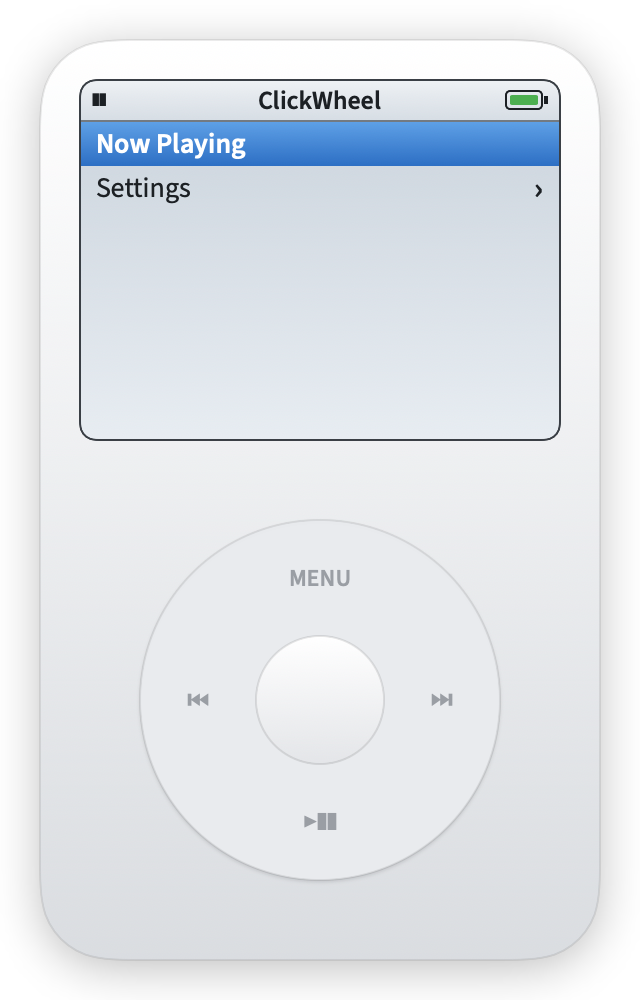
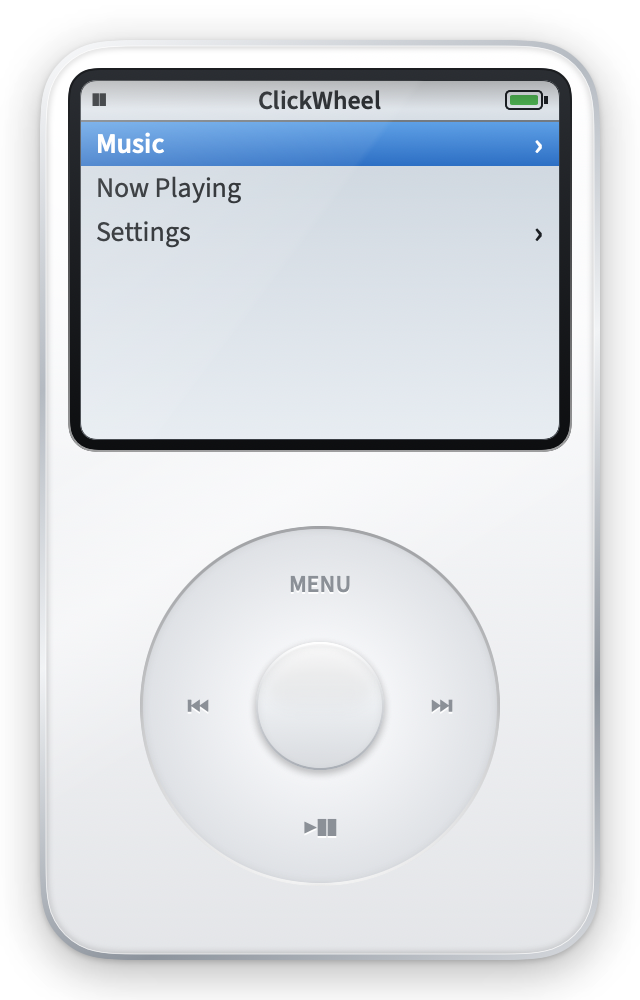
feat: skeuomorphic white body
- Chrome rim, glossy acrylic face with highlight and sheen
- Recessed black-glass screen bezel with glare
- Matte recessed wheel, engraved labels, convex center button
- Press feedback: center button sinks, tapped quadrant darkens

diff --git a/ClickWheel/UI/ClickWheelView.swift b/ClickWheel/UI/ClickWheelView.swift
@@ -8,26 +8,40 @@ struct ClickWheelView: View {
     @State private var tracker = WheelGestureTracker()
     @State private var dragging = false
     @State private var rotated = false
+    @State private var pressedQuadrant: WheelEvent?
+    @State private var centerPressed = false
 
     private let size = Theme.wheelDiameter
 
     var body: some View {
         ZStack {
-            Circle()
-                .fill(Theme.wheelFill)
-                .overlay(Circle().stroke(Color.black.opacity(0.08), lineWidth: 1))
-                .shadow(color: .black.opacity(0.12), radius: 1, y: 1)
-                .contentShape(Circle())
-                .gesture(ringGesture)
+            ring
             labels.allowsHitTesting(false)
-            Circle()
-                .fill(Theme.centerFill)
-                .overlay(Circle().stroke(Color.black.opacity(0.1), lineWidth: 1))
-                .frame(width: Theme.centerDiameter, height: Theme.centerDiameter)
-                .contentShape(Circle())
-                .onTapGesture { onEvent(.center) }
+            centerButton
         }
         .frame(width: size, height: size)
+    }
+
+    // MARK: - Drawing
+
+    /// Matte surface set into the body: radial shading, a recessed edge
+    /// (dark on top, light catch at the bottom) and a flash on the tapped quadrant.
+    private var ring: some View {
+        Circle()
+            .fill(Theme.wheelSurface)
+            .overlay { quadrantFlash }
+            .overlay(Circle().strokeBorder(Theme.wheelRecess, lineWidth: 1.5))
+            .overlay(Circle().stroke(Color.black.opacity(0.12), lineWidth: 2).blur(radius: 2).clipShape(Circle()))
+            .contentShape(Circle())
+            .gesture(ringGesture)
+    }
+
+    @ViewBuilder private var quadrantFlash: some View {
+        if let quadrant = pressedQuadrant {
+            QuadrantShape(centerAngle: angle(of: quadrant))
+                .fill(Color.black.opacity(0.07))
+                .mask(Circle().strokeBorder(lineWidth: (size - Theme.centerDiameter) / 2))
+        }
     }
 
     private var labels: some View {
@@ -39,7 +53,41 @@ struct ClickWheelView: View {
             Text("▶❚❚").offset(y: offset)
         }
         .font(Theme.font(12, semibold: true))
-        .foregroundStyle(Theme.wheelLabel)
+        .foregroundStyle(Theme.engravedLabel)
+        // Engraved: a light edge just below each stroke.
+        .shadow(color: .white.opacity(0.95), radius: 0, y: 1)
+    }
+
+    /// Glossy, convex, and it visibly presses in.
+    private var centerButton: some View {
+        Circle()
+            .fill(Theme.buttonGloss)
+            .overlay {
+                Ellipse()
+                    .fill(LinearGradient(colors: [.white.opacity(0.7), .white.opacity(0)], startPoint: .top, endPoint: .bottom))
+                    .frame(width: Theme.centerDiameter * 0.8, height: Theme.centerDiameter * 0.45)
+                    .offset(y: -Theme.centerDiameter * 0.18)
+                    .blur(radius: 3)
+            }
+            .overlay(Circle().fill(Color.black.opacity(centerPressed ? 0.08 : 0)))
+            .overlay(Circle().strokeBorder(Theme.buttonRim, lineWidth: 1))
+            .frame(width: Theme.centerDiameter, height: Theme.centerDiameter)
+            .scaleEffect(centerPressed ? 0.96 : 1)
+            .shadow(color: .black.opacity(centerPressed ? 0.1 : 0.22), radius: centerPressed ? 0.5 : 2, y: centerPressed ? 0.5 : 1.5)
+            .contentShape(Circle())
+            .gesture(centerGesture)
+    }
+
+    // MARK: - Input
+
+    private var centerGesture: some Gesture {
+        DragGesture(minimumDistance: 0)
+            .onChanged { _ in centerPressed = true }
+            .onEnded { value in
+                centerPressed = false
+                let d = hypot(value.location.x - Theme.centerDiameter / 2, value.location.y - Theme.centerDiameter / 2)
+                if d <= Theme.centerDiameter / 2 { onEvent(.center) }
+            }
     }
 
     private var ringGesture: some Gesture {
@@ -61,8 +109,17 @@ struct ClickWheelView: View {
                 defer { tracker.end(); dragging = false }
                 let moved = hypot(value.translation.width, value.translation.height)
                 guard !rotated, moved < 6 else { return }
-                onEvent(buttonEvent(at: relative(value.startLocation)))
+                let event = buttonEvent(at: relative(value.startLocation))
+                flash(event)
+                onEvent(event)
             }
+    }
+
+    private func flash(_ quadrant: WheelEvent) {
+        pressedQuadrant = quadrant
+        DispatchQueue.main.asyncAfter(deadline: .now() + 0.15) {
+            if pressedQuadrant == quadrant { pressedQuadrant = nil }
+        }
     }
 
     private func relative(_ location: CGPoint) -> CGPoint {
@@ -78,5 +135,30 @@ struct ClickWheelView: View {
         case 45 ..< 135: return .playPause
         default: return .previous
         }
+    }
+
+    /// Center of each button's quadrant, in degrees (y down).
+    private func angle(of quadrant: WheelEvent) -> Double {
+        switch quadrant {
+        case .menu: return -90
+        case .next: return 0
+        case .playPause: return 90
+        default: return 180
+        }
+    }
+}
+
+/// A 90° pie slice centered on `centerAngle` (degrees, y down).
+private struct QuadrantShape: Shape {
+    let centerAngle: Double
+
+    func path(in rect: CGRect) -> Path {
+        var path = Path()
+        let center = CGPoint(x: rect.midX, y: rect.midY)
+        path.move(to: center)
+        path.addArc(center: center, radius: rect.width / 2,
+                    startAngle: .degrees(centerAngle - 45), endAngle: .degrees(centerAngle + 45), clockwise: false)
+        path.closeSubpath()
+        return path
     }
 }

diff --git a/ClickWheel/UI/IPodView.swift b/ClickWheel/UI/IPodView.swift
@@ -1,6 +1,6 @@
 import SwiftUI
 
-/// The whole device: body, screen and wheel.
+/// The whole device: chrome rim, glossy acrylic face, recessed screen and wheel.
 struct IPodView: View {
     /// ImageRenderer can't draw AppKit views, so snapshots leave out the drag area.
     var includesWindowControls = true
@@ -9,11 +9,16 @@ struct IPodView: View {
     @EnvironmentObject private var settings: AppSettings
     @EnvironmentObject private var hub: PlayerHub
 
+    private var faceShape: RoundedRectangle {
+        RoundedRectangle(cornerRadius: Theme.bodyCornerRadius - Theme.rimWidth)
+    }
+
     var body: some View {
         ZStack(alignment: .top) {
             RoundedRectangle(cornerRadius: Theme.bodyCornerRadius)
-                .fill(Theme.bodyGradient)
-                .overlay(RoundedRectangle(cornerRadius: Theme.bodyCornerRadius).stroke(Color.black.opacity(0.08), lineWidth: 1))
+                .fill(Theme.chrome)
+            face
+                .padding(Theme.rimWidth)
                 .overlay {
                     if includesWindowControls {
                         WindowDragArea(keepOnTop: settings.keepOnTop) { settings.keepOnTop.toggle() }
@@ -21,11 +26,13 @@ struct IPodView: View {
                     }
                 }
             VStack(spacing: 0) {
-                ScreenView()
-                    // The screen only needs clicks for the permission button;
-                    // otherwise let them reach the drag area so it moves the window.
-                    .allowsHitTesting(hub.status != .ok && hub.snapshot?.track == nil)
-                    .padding(.top, Theme.screenInset)
+                ScreenBezel {
+                    ScreenView()
+                        // The screen only needs clicks for the permission button;
+                        // otherwise let them reach the drag area so it moves the window.
+                        .allowsHitTesting(hub.status != .ok && hub.snapshot?.track == nil)
+                }
+                .padding(.top, Theme.screenInset - Theme.bezelInset)
                 Spacer()
                 ClickWheelView { navigator.handle($0) }
                 Spacer()
@@ -33,6 +40,66 @@ struct IPodView: View {
         }
         .frame(width: Theme.bodySize.width, height: Theme.bodySize.height)
         .compositingGroup()
-        .shadow(color: .black.opacity(Theme.shadowOpacity), radius: Theme.shadowRadius, y: 4)
+        .shadow(color: .black.opacity(0.18), radius: 1.5, y: 1)
+        .shadow(color: .black.opacity(Theme.shadowOpacity), radius: Theme.shadowRadius, y: 6)
+    }
+
+    /// Glossy white acrylic: base gradient, a top-left specular highlight, a soft
+    /// diagonal sheen and a shadowed edge where it meets the chrome.
+    private var face: some View {
+        faceShape
+            .fill(Theme.acrylic)
+            .overlay {
+                RadialGradient(colors: [.white.opacity(0.95), .white.opacity(0)],
+                               center: UnitPoint(x: 0.15, y: 0.05), startRadius: 0, endRadius: 190)
+                    .blendMode(.screen)
+            }
+            .overlay {
+                LinearGradient(stops: [.init(color: .white.opacity(0), location: 0.35),
+                                       .init(color: .white.opacity(0.45), location: 0.48),
+                                       .init(color: .white.opacity(0), location: 0.62)],
+                               startPoint: .topLeading, endPoint: .bottomTrailing)
+            }
+            .overlay {
+                faceShape
+                    .stroke(Color.black.opacity(0.18), lineWidth: 2)
+                    .blur(radius: 1.5)
+            }
+            .clipShape(faceShape)
+            .overlay(faceShape.stroke(Color.white.opacity(0.7), lineWidth: 0.5))
+    }
+}
+
+/// Black glass window the LCD sits in, with an inner shadow and a glare.
+private struct ScreenBezel<Content: View>: View {
+    @ViewBuilder let content: Content
+
+    private let corner = Theme.screenCornerRadius + Theme.bezelInset
+
+    var body: some View {
+        ZStack {
+            RoundedRectangle(cornerRadius: corner)
+                .fill(Theme.bezel)
+                .overlay(RoundedRectangle(cornerRadius: corner)
+                    .strokeBorder(LinearGradient(colors: [.black.opacity(0.35), .white.opacity(0.6)],
+                                                 startPoint: .top, endPoint: .bottom), lineWidth: 1))
+            content
+                .overlay {
+                    // Recess: shadow falling from the top edge of the window.
+                    LinearGradient(colors: [.black.opacity(0.28), .clear], startPoint: .top, endPoint: .init(x: 0.5, y: 0.08))
+                        .allowsHitTesting(false)
+                }
+                .overlay {
+                    // Glass glare across the top-left of the display.
+                    LinearGradient(stops: [.init(color: .white.opacity(0.22), location: 0),
+                                           .init(color: .white.opacity(0.06), location: 0.45),
+                                           .init(color: .clear, location: 0.46)],
+                                   startPoint: .topLeading, endPoint: .bottomTrailing)
+                        .allowsHitTesting(false)
+                }
+                .clipShape(RoundedRectangle(cornerRadius: Theme.screenCornerRadius))
+        }
+        .frame(width: Theme.screenSize.width + Theme.bezelInset * 2,
+               height: Theme.screenSize.height + Theme.bezelInset * 2)
     }
 }

diff --git a/ClickWheel/UI/Theme.swift b/ClickWheel/UI/Theme.swift
@@ -30,6 +30,30 @@ enum Theme {
                                            startPoint: .top, endPoint: .bottom)
     static let wheelLabel = Color(hex: 0x9A9EA4)
 
+    // Skeuomorphic materials
+    static let rimWidth: CGFloat = 3
+    static let chrome = LinearGradient(
+        stops: [.init(color: Color(hex: 0xFAFBFC), location: 0),
+                .init(color: Color(hex: 0xB4BAC1), location: 0.28),
+                .init(color: Color(hex: 0xF1F3F5), location: 0.5),
+                .init(color: Color(hex: 0x8C939C), location: 0.78),
+                .init(color: Color(hex: 0xD9DCE0), location: 1)],
+        startPoint: .topLeading, endPoint: .bottomTrailing)
+    static let acrylic = LinearGradient(colors: [Color(hex: 0xFFFFFF), Color(hex: 0xF3F4F6), Color(hex: 0xE4E6E9)],
+                                        startPoint: .top, endPoint: .bottom)
+    static let bezelInset: CGFloat = 6
+    static let bezel = LinearGradient(colors: [Color(hex: 0x2B2E33), Color(hex: 0x0D0E10)],
+                                      startPoint: .top, endPoint: .bottom)
+    static let wheelSurface = RadialGradient(colors: [Color(hex: 0xF5F6F8), Color(hex: 0xDDE0E4)],
+                                             center: .center, startRadius: 30, endRadius: 92)
+    static let wheelRecess = LinearGradient(colors: [Color.black.opacity(0.22), Color.white.opacity(0.95)],
+                                            startPoint: .top, endPoint: .bottom)
+    static let engravedLabel = Color(hex: 0x8B9097)
+    static let buttonGloss = LinearGradient(colors: [Color(hex: 0xFFFFFF), Color(hex: 0xEDEFF1), Color(hex: 0xD8DBDF)],
+                                            startPoint: .top, endPoint: .bottom)
+    static let buttonRim = LinearGradient(colors: [Color.white, Color(hex: 0xA9AEB5)],
+                                          startPoint: .top, endPoint: .bottom)
+
     static func font(_ size: CGFloat, semibold: Bool = false) -> Font {
         .custom(semibold ? "SourceSans3-Semibold" : "SourceSans3-Regular", size: size)
     }
